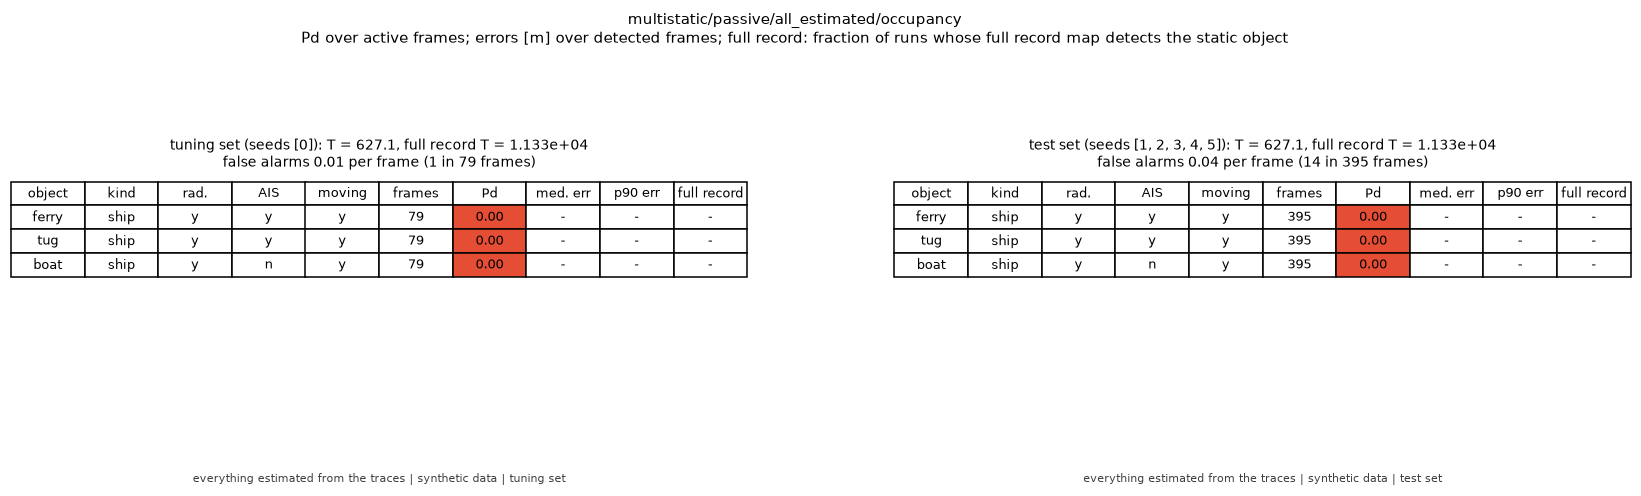
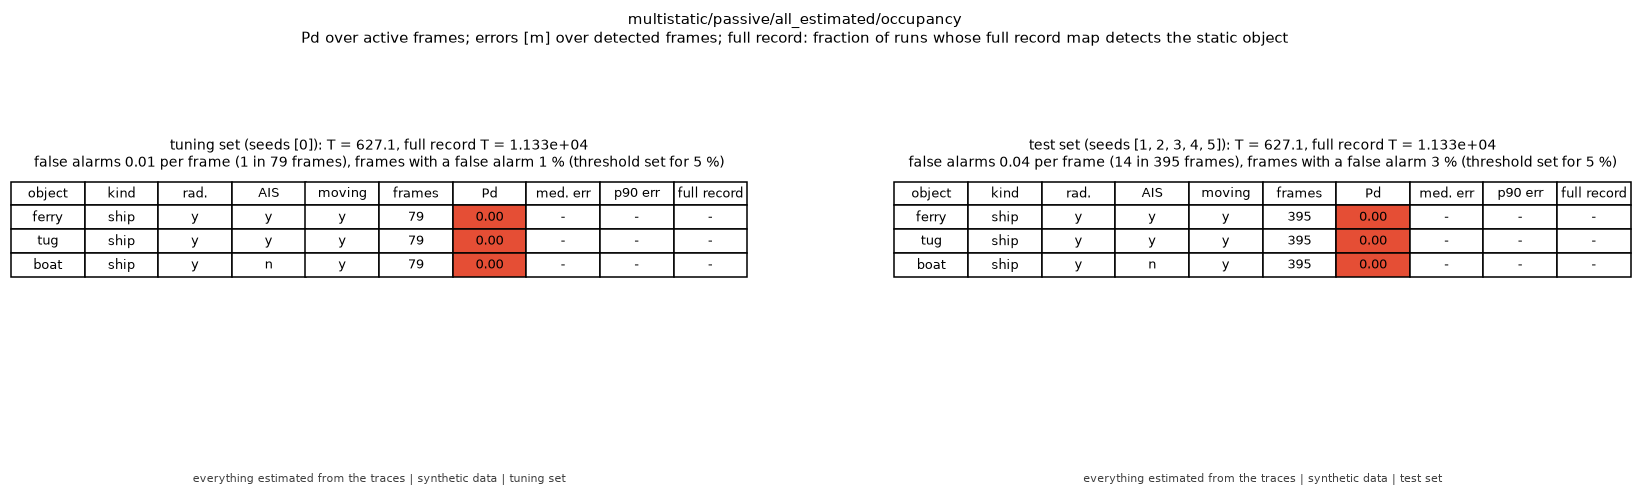
scoreboard: report the false alarm rate each threshold gives on the scene
What was wrong: the thresholds are set at 5 % of the frames of runs with one
object removed, but the occupancy map is renormalised to sum 1 every frame
(the objects take mass from the background) and the scan map gains the
removed ship's sidelobes in the full scene, so the full scene false alarm
rate is not the 5 % the threshold was set for.  Only false alarms per frame
were reported, not a rate comparable with the target; criterion 1 is
scored on the occupancy map.

What changed: Scoreboard.false_alarm_frame_rate (frames with at least one
false alarm, the measured counterpart of pfa) in the JSON, the log and the
figures; the docs table gives it beside Pd and states which scoreboards are
calibrated.  Measured (tuning / test): echo all_estimated 4 / 6 %,
true_waveform_exact_track 5 / 3 % (calibrated); direct_removed_exactly
15 / 18 %; passive scan 16 / 7 %; passive occupancy 1 / 3 %.  No Pd moves.

Tests: a threshold set on the one object removed runs of a synthetic scene
gives 4.4 % (5 % +- 2 %) on an independent noise run of the full scene; the
same scene through a per frame normalisation gives 1.2 % (< 2 %).

Changed region(s): [[0.5594, 0.3024, 0.9945, 0.3629], [0.0, 0.3024, 0.4351, 0.3327]]

diff --git a/src/acoustic_sim/water/scoreboard.py b/src/acoustic_sim/water/scoreboard.py
@@ -16,7 +16,12 @@ with ``evaluate.py`` on the scoring side; processing modules never import it).  
   peak cannot detect two pilings 5 m apart).
 * **Pd** per object: detected frames over frames in which the object is active.
 * **False alarms**: local maxima above ``T`` more than ``fa_radius`` (10 m) from every true object
-  and outside the ship exclusion zones, per frame.
+  and outside the ship exclusion zones, per frame (``false_alarm_rate``), and the fraction of frames with at
+  least one (``false_alarm_frame_rate``), the measured counterpart of ``pfa`` on the scene scored.  The two
+  agree with ``pfa`` only for a map whose background far from the objects does not depend on which objects
+  are in the scene (a calibrated map, e.g. the whitened matched field statistic); a map normalised over the
+  scene every frame (the occupancy posterior) moves mass between objects and background, so its false alarm
+  rate on the full scene is not the rate its threshold was set for and has to be read from these fields.
 * **Localisation error**: median and 90th percentile distance from the detecting peak to the true
   position, over detected frames.
 * **Full record map**: the sum of the frame maps; its threshold is the largest local maximum of the
@@ -209,13 +214,14 @@ class Scoreboard:
     separation: dict | None = None
     label: str = ""
     meta: dict = field(default_factory=dict)
+    false_alarm_frame_rate: float = float("nan")
 
     def get(self, oid: str) -> ObjectScore:
         return next(o for o in self.per_object if o.id == oid)
 
     def to_dict(self) -> dict:
         return {"label": self.label, "threshold": self.threshold.to_dict(), "false_alarm_rate": self.false_alarm_rate,
-                "false_alarms": self.false_alarms, "n_frames": self.n_frames, "separation": self.separation,
+                "false_alarm_frame_rate": self.false_alarm_frame_rate, "false_alarms": self.false_alarms, "n_frames": self.n_frames, "separation": self.separation,
                 "per_object": [o.to_dict() for o in self.per_object], "provenance": self.provenance.to_dict(), **self.meta}
 
 
@@ -322,12 +328,14 @@ def score(
         rows.append(row)
 
     # False alarms on the primary runs.
-    n_fa, K = 0, 0
+    n_fa, k_fa, K = 0, 0, 0
     for run, tru in zip(primary, truths):
         ids = run.objects(tru)
         xy, _ = _positions(tru, ids, run.times)
         for k, (_, _, _, p) in enumerate(frame_assignments(run, tru)):
-            n_fa += int(np.sum(_far_from(run.grid[p], xy[:, k], fa_radius)))
+            n = int(np.sum(_far_from(run.grid[p], xy[:, k], fa_radius)))
+            n_fa += n
+            k_fa += n > 0
         K += len(run.times)
     sep = None
     if pilings:
@@ -336,7 +344,8 @@ def score(
             per_run.append(sum(1 for p in pilings if p in maps and _full_hit(maps[p][i], tru, p, threshold, detect_radius)))
         sep = {"pilings": len([p for p in pilings if p in maps]), "resolved_per_run": per_run,
                "resolved_median": float(np.median(per_run))}
-    return Scoreboard(rows, n_fa / max(K, 1), threshold, primary[0].provenance, n_fa, K, sep, label)
+    return Scoreboard(rows, n_fa / max(K, 1), threshold, primary[0].provenance, n_fa, K, sep, label,
+                      false_alarm_frame_rate=k_fa / max(K, 1))
 
 
 def _full_hit(run: ChainMaps, tru: Truth, oid: str, threshold: Threshold, detect_radius: float) -> bool:
@@ -380,7 +389,8 @@ def plot_table(sb: Scoreboard, path, title: str = "") -> None:
                 cell.set_facecolor(plt.cm.RdYlGn(0.15 + 0.7 * pd))
     sep = (f", pilings resolved {sb.separation['resolved_per_run']} of {sb.separation['pilings']}" if sb.separation else "")
     ax.set_title(f"{title or sb.label}\nthreshold T = {sb.threshold.T:.4g} (at most {100 * sb.threshold.pfa:.0f} % of "
-                 f"{sb.threshold.n_frames} object free frames above), false alarms {sb.false_alarm_rate:.2f} per frame{sep}",
+                 f"{sb.threshold.n_frames} object free frames above), false alarms {sb.false_alarm_rate:.2f} per frame, "
+                 f"frames with a false alarm {100 * sb.false_alarm_frame_rate:.0f} %{sep}",
                  fontsize=10)
     annotate_figure(fig, sb.provenance)
     fig.savefig(path, dpi=110, bbox_inches="tight")

diff --git a/examples/harbor_picture_stage1.py b/examples/harbor_picture_stage1.py
@@ -12,8 +12,14 @@ Chains and configurations
 withheld, so the locator has to find them): ``run_ais_aware`` (AIS ships refined, projected out and
 excluded), the matched field scan, then the occupancy filter.  Two maps are scored: ``occupancy`` (the
 filter's posterior per frame times the number of cells, the chain's output) and ``scan`` (the matched
-field statistic it consumes).  Configuration ``all_estimated`` (free field replicas at the chart's
-sound speed); ``--propagator simulator`` gives the same chain with the FDTD dispersion corrected
+field statistic it consumes).  Neither threshold is guaranteed to give 5 % on the full scene: it is set on
+runs with one object removed, so whatever that object adds beyond the false alarm radius (the sidelobes of a
+ship in the scan map) appears only in the full scene, and the occupancy posterior is renormalised to sum 1
+every frame, so the mass the objects hold in the full scene is taken from the background (and a weak
+object's Pd depends on how loud the others are).  Every scoreboard therefore reports the rate its threshold
+gives on the full scene (``false_alarm_frame_rate``, frames with at least one false alarm) beside Pd.
+Configuration ``all_estimated`` (free field replicas at the chart's sound speed); ``--propagator simulator``
+gives the same chain with the FDTD dispersion corrected
 replicas (simulator knowledge, labelled ``simulator_propagator``).
 
 ``echo`` (the silent bodies; each AIS ship of the dataset as the illuminator in turn, its reports
@@ -514,7 +520,8 @@ def plot_scoreboard_pair(sbs: dict, path: Path, title: str) -> None:
                 cell.set_facecolor(plt.cm.RdYlGn(0.15 + 0.7 * sb.per_object[r - 1].pd))
         sep = (f"\npilings resolved on the full record map: {sb.separation['resolved_per_run']}" if sb.separation else "")
         ax.set_title(f"{split} set (seeds {sb.meta['seeds']}): T = {sb.threshold.T:.4g}, full record T = {sb.threshold.T_full:.4g}\n"
-                     f"false alarms {sb.false_alarm_rate:.2f} per frame ({sb.false_alarms} in {sb.n_frames} frames){sep}", fontsize=9)
+                     f"false alarms {sb.false_alarm_rate:.2f} per frame ({sb.false_alarms} in {sb.n_frames} frames), frames with a "
+                     f"false alarm {100 * sb.false_alarm_frame_rate:.0f} % (threshold set for {100 * sb.threshold.pfa:.0f} %){sep}", fontsize=9)
         ax.text(0.5, -0.02, sb.provenance.label(), transform=ax.transAxes, ha="center", va="top", fontsize=7.5,
                 color="0.25" if sb.provenance.all_estimated else "firebrick")
     h = fig.get_size_inches()[1]
@@ -734,7 +741,8 @@ def main() -> None:
                     for split in ("tuning", "test"):
                         if split in sbs:
                             sb = sbs[split]
-                            say(f"[{key}] {split}: T {sb.threshold.T:.4g}, FA {sb.false_alarm_rate:.2f}/frame, Pd " +
+                            say(f"[{key}] {split}: T {sb.threshold.T:.4g}, FA {sb.false_alarm_rate:.2f}/frame, frames with a false alarm "
+                                f"{100 * sb.false_alarm_frame_rate:.0f} % (threshold set for {100 * sb.threshold.pfa:.0f} %), Pd " +
                                 ", ".join(f"{o.id} {o.pd:.2f}" for o in sb.per_object) +
                                 (f", pilings resolved {sb.separation['resolved_per_run']}" if sb.separation else ""))
                     res_path.write_text(json.dumps(results_json, indent=2))

diff --git a/tests/harbor/test_scoreboard.py b/tests/harbor/test_scoreboard.py
@@ -128,3 +128,54 @@ def test_runs_of_several_seeds_are_pooled(truth):
     assert (st.frames, st.detected, st.pd) == (2 * K, K, 0.5)
     assert st.full_record_hits == [True, False] and st.full_record_detected == 0.5
     assert sb.false_alarms == 2 and sb.n_frames == 2 * K
+
+
+# ----------------------------- calibration -----------------------------
+
+N_CAL = 2000                                                  # frames per run
+G_CAL = np.column_stack([a.ravel() for a in np.meshgrid(np.arange(40.0), np.arange(40.0))])
+OBJ_CAL = {"a": (10.0, 10.0), "b": (30.0, 28.0)}
+
+
+def _cal_truth():
+    t = np.linspace(0.0, N_CAL * 0.25, 50)
+    return Truth(tracks={k: Track(k, "static", False, t, np.tile(xy, (50, 1)), np.zeros(50), np.ones(50, bool))
+                         for k, xy in OBJ_CAL.items()})
+
+
+def _cal_run(seed, present, normalise=False):
+    """Exp(1) noise on every cell and frame plus a bump of 20 at each object in *present*.  ``normalise``: the map
+    is ``exp(B / 2)`` renormalised to sum 1 every frame and times the number of cells, as the occupancy posterior."""
+    rng = np.random.default_rng(seed)
+    B = rng.exponential(1.0, (len(G_CAL), N_CAL))
+    for k in present:
+        B[np.hypot(*(G_CAL - OBJ_CAL[k]).T) <= 1.0] += 20.0
+    if normalise:
+        E = np.exp(0.5 * B)
+        B = E / E.sum(axis=0) * len(G_CAL)
+    removed = tuple(k for k in OBJ_CAL if k not in present)
+    return ChainMaps(G_CAL, np.arange(N_CAL) * 0.25, B, removed=removed, label=f"seed{seed}:{'+'.join(present)}")
+
+
+def test_threshold_holds_its_false_alarm_rate_on_an_independent_noise_run_of_the_scene():
+    """T set on the one object removed runs of a scene (noise seeds 1, 2); on the full scene with an independent
+    noise realisation (seed 3) the fraction of frames with a false alarm is the 5 % target within 0.02 (the binomial
+    standard error over 2000 frames is 0.005, that of the threshold quantile over 4000 frames about 0.004)."""
+    truth = _cal_truth()
+    thr = set_threshold([_cal_run(1, ("b",)), _cal_run(2, ("a",))], truth)
+    full = _cal_run(3, ("a", "b"))
+    sb = score({"a": full, "b": full}, truth, thr)
+    assert abs(sb.false_alarm_frame_rate - 0.05) <= 0.02, sb.false_alarm_frame_rate
+    assert sb.get("a").pd == 1.0 and sb.get("b").pd == 1.0
+
+
+def test_a_map_normalised_every_frame_does_not_hold_its_false_alarm_rate():
+    """The same scene through a per frame normalisation (the occupancy posterior): the second object takes mass
+    from the background, so on the full scene far fewer frames than the 5 % set on the object free runs have a
+    false alarm.  The scoreboard reports the rate it measures, not the target."""
+    truth = _cal_truth()
+    thr = set_threshold([_cal_run(1, ("b",), True), _cal_run(2, ("a",), True)], truth)
+    full = _cal_run(3, ("a", "b"), True)
+    sb = score({"a": full, "b": full}, truth, thr)
+    assert sb.false_alarm_frame_rate < 0.02, sb.false_alarm_frame_rate
+    assert sb.to_dict()["false_alarm_frame_rate"] == sb.false_alarm_frame_rate

diff --git a/docs/harbor.md b/docs/harbor.md
@@ -478,13 +478,26 @@ runs it (tuning set seed 0, test set seeds 1 to 5). The run was stopped after th
 and the multistatic passive chain (`output/harbor_picture/stage1/results.json`); with the threshold
 at 5 % of object free frames:
 
-| Dataset / chain | Configuration | Pd tuning | Pd test |
-|---|---|---|---|
-| bistatic / echo | `all_estimated` | uuv1 0.27 | uuv1 0.30 |
-| bistatic / echo | `true_waveform_exact_track` (given the truth) | uuv1 0.03 | uuv1 0.02 |
-| bistatic / echo | `direct_removed_exactly` (given the truth) | uuv1 0.37 | uuv1 0.51 |
-| multistatic / passive (scan map) | `all_estimated` | ferry 0.01, tug 0.00, boat 0.16 | ferry 0.01, tug 0.00, boat 0.08 |
-| multistatic / passive (occupancy map) | `all_estimated` | 0.00, 0.00, 0.00 | 0.00, 0.00, 0.00 |
+| Dataset / chain | Configuration | Pd tuning | Pd test | Frames with a false alarm, tuning / test (target 5 %) |
+|---|---|---|---|---|
+| bistatic / echo | `all_estimated` | uuv1 0.27 | uuv1 0.30 | 4 % / 6 % |
+| bistatic / echo | `true_waveform_exact_track` (given the truth) | uuv1 0.03 | uuv1 0.02 | 5 % / 3 % |
+| bistatic / echo | `direct_removed_exactly` (given the truth) | uuv1 0.37 | uuv1 0.51 | 15 % / 18 % |
+| multistatic / passive (scan map) | `all_estimated` | ferry 0.01, tug 0.00, boat 0.16 | ferry 0.01, tug 0.00, boat 0.08 | 16 % / 7 % |
+| multistatic / passive (occupancy map) | `all_estimated` | 0.00, 0.00, 0.00 | 0.00, 0.00, 0.00 | 1 % / 3 % |
+
+**Which scoreboards are calibrated.** The threshold is set on runs with one object removed from the mix, at
+5 % of their frames; the last column is the rate it actually gives on the full scene (`false_alarm_frame_rate`
+in the JSON: frames with at least one false alarm). Only the two bistatic rows with the ECA hold the 5 %
+(`all_estimated`, `true_waveform_exact_track`): the UUV is the only object and adds nothing beyond the false
+alarm radius. The passive scan map does not: each object free run lacks that ship's sidelobes, which appear
+beyond the 10 m radius in the full scene (16 % on the tuning mix). The occupancy map does not either, in the
+other direction (1 to 3 %): it is renormalised to sum 1 every frame, so in the full scene the objects take
+mass from the background, and a weak object's Pd depends on how loud the others are. Criterion 1 is scored on
+the occupancy map, so its Pd is at a false alarm rate below 5 %, not at 5 %. `direct_removed_exactly` (18 %)
+is not comparable with the other echo rows. On a map whose background does not depend on the scene the
+threshold does hold (`tests/harbor/test_scoreboard.py`: 4.4 % on an independent noise run, against 1.2 % for
+the same map normalised every frame).
 
 Criteria fixed before the run: 1 (passive, ferry, tug and boat Pd >= 0.9) **fails**; 2 (echo,
 bistatic UUV Pd >= 0.5) **fails** (0.30); 3 (multistatic static bodies) was not run. The UUV is the
